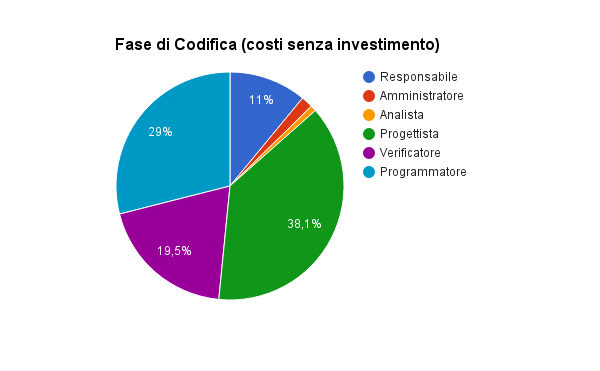
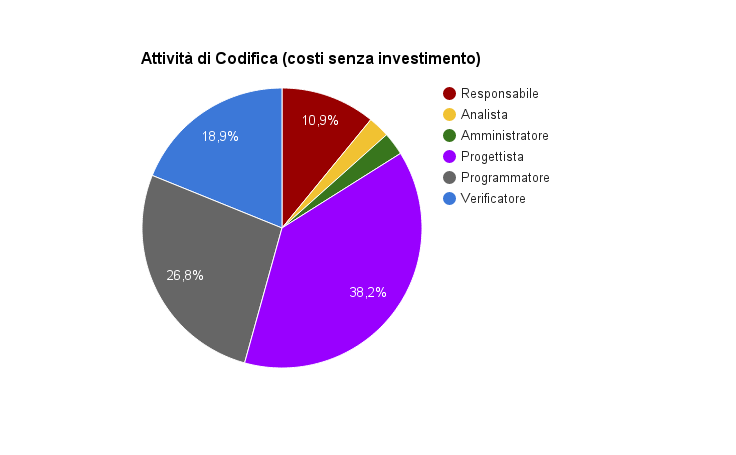
update tabelle PdP, minor fixes

Changed region(s): [[0.18, 0.1779, 0.6, 0.8302], [0.6, 0.1779, 0.78, 0.4744], [0.18, 0.0889, 0.75, 0.1482]]

diff --git a/RR/Esterni/PianoDiProgetto_v0.1.1.tex b/RR/Esterni/PianoDiProgetto_v0.1.1.tex
@@ -266,7 +266,7 @@ Nella fase di Analisi, i componenti ricopriranno i ruoli di progetto secondo la 
     \hline
     & \textbf{Inv} & \textbf{Ren} & \textbf{Inv} & \textbf{Ren} & \textbf{Inv} & \textbf{Ren} & \textbf{Inv} & \textbf{Ren} & \textbf{Inv} & \textbf{Ren} & \textbf{Inv} & \textbf{Ren} & \textbf{Inv} & \textbf{Ren}\\
     \hline
-    Andrea Baldan & 13 & 12 & & & 10 & 7 & & & & & 12 & 10 & 35 & 29\\
+    Andrea Baldan & 13 & 12 & & & 11 & 8 & & & & & 12 & 10 & 36 & 30\\
     Alberto de Agostini & 12 & 11 & 12 & 10 & & & & & & & 12 & 9 & 36 & 30\\
     Michael Munaro & & & 17 & 15 & & & & & & & 17 & 14 & 34 & 29\\
     Giacomo Vanin & & & 17 & 14 & & & & & & & 19 & 17 & 36 & 31\\
@@ -276,7 +276,7 @@ Nella fase di Analisi, i componenti ricopriranno i ruoli di progetto secondo la 
     \hline
   \end{tabular}
 \end{center}
-I seguenti grafici illustrano le ore investite per Persona suddivise tra ore investite e ore rendicontate, in fase di Analisi
+I seguenti grafici illustrano le ore investite per Persona suddivise tra ore investite e ore rendicontate, per l'attività di Analisi
 \begin{figure}[H]
   \begin{subfigure}[H]{0.47\textwidth}
     \includegraphics[width=1.2\textwidth,keepaspectratio]{AnalisiConInvestimento.png}
@@ -304,13 +304,15 @@ Nella fase di Progettazione, i componenti ricopriranno i ruoli di progetto secon
     Alberto de Agostini & & & 5 & 4 & 4 & 4 & 20 & 18 & & & & & 29 & 26\\
     Michael Munaro & & & & & 6 & 5 & & & & & 19 & 17 & 25 & 22\\
     Giacomo Vanin & 11 & 10 & & & & & 18 & 16 & & & & & 29 & 26\\
-    Marco Boseggia & 10 & 8 & 7 & 6 & & & 4 & 3 & & & 18 & 15 & 39 & 32\\
+    Marco Boseggia & 8 & 7 & 7 & 6 & 4 & 3 & 4 & 3 & & & 17 & 15 & 40 & 34\\
     Francesco Agostini & & & 8 & 7 & & & 17 & 15 & & & & & 25 & 22\\
     Davide Trevisan & & & 8 & 6 & & & 18 & 16 & & & 15 & 12 & 41 & 34\\
     \hline
   \end{tabular}
 \end{center}
-I seguenti grafici illustrano le ore investite per Persona suddivise tra ore investite e ore rendicontate, in fase di Progettazione
+I seguenti grafici illustrano le ore investite per Persona suddivise tra ore
+investite e ore rendicontate, per l'attività di Progettazione, comprensive delle
+ore riservate all'attività \textbf{Analisi di dettaglio}.
 \begin{figure}[H]
   \begin{subfigure}[H]{0.47\textwidth}
     \includegraphics[width=1.2\textwidth,keepaspectratio]{ProgettazioneConInvestimento.png}
@@ -333,18 +335,19 @@ Nella fase di Codifica, i componenti ricopriranno i ruoli di progetto secondo la
     \hline
     & \textbf{Inv} & \textbf{Ren} & \textbf{Inv} & \textbf{Ren} & \textbf{Inv} & \textbf{Ren} & \textbf{Inv} & \textbf{Ren} & \textbf{Inv} & \textbf{Ren} & \textbf{Inv} & \textbf{Ren} & \textbf{Inv} & \textbf{Ren}\\
     \hline
-    Andrea Baldan & & & 2 & 2 & & & 22 & 20 & 26 & 24 & 2 & 2 & 52 & 48\\
+    Andrea Baldan & & & 7 & 6 & & & 20 & 18 & 23 & 21 & 2 & 2 & 52 & 47\\
     Alberto de Agostini & & & & & & & 21 & 18 & 17 & 15 & 16 & 12 & 54 & 45\\
-    Michael Munaro & 10 & 9 & & & & & & & 31 & 27 & 22 & 17 & 63 & 53\\
-    Giacomo Vanin & & & & & 6 & 5 & & & 24 & 21 & 24 & 18 & 54 & 44\\
-    Marco Boseggia & & & & & & & 23 & 20 & 22 & 20 & & & 45 & 40\\
-    Francesco Agostini & 8 & 7 & & & & & 27 & 24 & & & 25 & 20 & 60 & 51\\
-    Davide Trevisan & 6 & 6 & & & & & 24 & 22 & 10 & 9 & 13 & 9 & 53 & 46\\
+    Michael Munaro & 10 & 9 & & & & & 15 & 13 & 15 & 13 & 22 & 17 & 62 & 52\\
+    Giacomo Vanin & & & & & 6 & 5 & & & 25 & 22 & 24 & 18 & 55 & 45\\
+    Marco Boseggia & & & & & & & 22 & 19 & 21 & 19 & & & 43 & 38\\
+    Francesco Agostini & 8 & 7 & & & & & 20 & 18 & 10 & 9 & 20 & 18 & 58 & 52\\
+    Davide Trevisan & 6 & 6 & & & 4 & 3 & 21 & 19 & 10 & 9 & 13 & 9 & 54 & 46\\
     \hline
   \end{tabular}
 \end{center}
-\normalsize
-I seguenti grafici illustrano le ore investite per Persona suddivise tra ore investite e ore rendicontate, in fase di Codifica
+\normalsize I seguenti grafici illustrano le ore investite per Persona suddivise
+tra ore investite e ore rendicontate, per l'attività di Codifica, comprensive
+delle ore riservate per l'attività \textbf{Progettazione di Dettaglio}.
 \begin{figure}[H]
   \begin{subfigure}[H]{0.47\textwidth}
     \includegraphics[width=1.2\textwidth,keepaspectratio]{CodificaConInvestimento.png}
@@ -367,29 +370,29 @@ Per la durata complessiva del progetto, i componenti ricopriranno i ruoli di pro
     \hline
     & \textbf{Inv} & \textbf{Ren} & \textbf{Inv} & \textbf{Ren} & \textbf{Inv} & \textbf{Ren} & \textbf{Inv} & \textbf{Ren} & \textbf{Inv} & \textbf{Ren} & \textbf{Inv} & \textbf{Ren} & \textbf{Inv} & \textbf{Ren}\\
     \hline
-    Andrea Baldan & & & 2 & 2 & & & 22 & 20 & 26 & 24 & 2 & 2 & 52 & 48\\
-    Alberto de Agostini & & & & & & & 21 & 18 & 17 & 15 & 16 & 12 & 54 & 45\\
-    Michael Munaro & 10 & 9 & & & & & & & 31 & 27 & 22 & 17 & 63 & 53\\
-    Giacomo Vanin & & & & & 6 & 5 & & & 24 & 21 & 24 & 18 & 54 & 44\\
-    Marco Boseggia & & & & & & & 23 & 20 & 22 & 20 & & & 45 & 40\\
-    Francesco Agostini & 8 & 7 & & & & & 27 & 24 & & & 25 & 20 & 60 & 51\\
-    Davide Trevisan & 6 & 6 & & & & & 24 & 22 & 10 & 9 & 13 & 9 & 53 & 46\\
+    Andrea Baldan & 13 & 12 & 7 & 6 & 11 & 8 & 37 & 32 & 23 & 21 & 26 & 23 & 117 & 102\\
+    Alberto de Agostini & 12 & 11 & 17 & 14 & 4 & 4 & 41 & 36 & 17 & 15 & 28 & 21 & 119 & 101\\
+    Michael Munaro & 10 & 9 & 17 & 15 & 6 & 5 & 15 & 13 & 15 & 13 & 58 & 48 & 121 & 103\\
+    Giacomo Vanin & 11 & 10 & 17 & 14 & 6 & 5 & 18 & 16 & 25 & 22 & 43 & 35 & 120 & 102\\
+    Marco Boseggia & 8 & 7 & 25 & 22 & 4 & 3 & 26 & 22 & 21 & 19 & 33 & 30 & 117 & 103\\
+    Francesco Agostini & 8 & 7 & 18 & 16 & 10 & 8 & 37 & 33 & 10 & 9 & 34 & 30 & 117 & 103\\
+    Davide Trevisan & 6 & 6 & 22 & 18 & 4 & 3 & 39 & 35 & 10 & 9 & 41 & 32 & 122 & 103\\
     \hline
   \end{tabular}
 \end{center}
 \normalsize
-I seguenti grafici illustrano le ore investite per Persona suddivise tra ore investite e ore rendicontate, in fase di Codifica
-%\begin{figure}[H]
-%  \begin{subfigure}[H]{0.47\textwidth}
-%    \includegraphics[width=1.2\textwidth,keepaspectratio]{TotaleConInvestimento.png}
-%    \caption{Ore con investimento totali}
-%  \end{subfigure}
-%  \qquad
-%  \begin{subfigure}[H]{0.47\textwidth}
-%    \includegraphics[width=1.2\textwidth,keepaspectratio]{TotaleConRendicontazione.png}
-%    \caption{Ore con rendicontazione totali}
-%  \end{subfigure}
-%\end{figure}
+I seguenti grafici illustrano le ore investite per Persona suddivise tra ore investite e ore rendicontate durante l'intero progetto:
+\begin{figure}[H]
+ \begin{subfigure}[H]{0.47\textwidth}
+   \includegraphics[width=1.2\textwidth,keepaspectratio]{TotaleConInvestimento.png}
+   \caption{Ore con investimento totali}
+ \end{subfigure}
+ \qquad
+ \begin{subfigure}[H]{0.47\textwidth}
+   \includegraphics[width=1.2\textwidth,keepaspectratio]{TotaleConRendicontazione.png}
+   \caption{Ore con rendicontazione totali}
+ \end{subfigure}
+\end{figure}
 \newpage
 \subsection{Prospetto economico}
 In questa sottosezione vengono presentati, per ciascuna fase del progetto identificata
@@ -404,14 +407,14 @@ Nella fase di Analisi, le ore tra i ruoli sono state divise nel seguente modo:
     \hline
     \textbf{Ruolo} & \textbf{Ore} & \textbf{Costo}\\
     \hline
-    Responsabile & 27 & 810\\
-    Amministratore & 23 & 460\\
-    Analista & 97 & 2425\\
+    Responsabile & 25 & 750\\
+    Amministratore & 21 & 420\\
+    Analista & 88 & 2200\\
     Progettista & 0 & 0\\
-    Verificatore & 114 & 1710 \\
+    Verificatore & 103 & 1545 \\
     Programmatore & 0 & 0 \\
     \hline
-    \textbf{Totale} & 261 & 5405\\
+    \textbf{Totale} & 237 & 4915\\
     \hline
   \end{tabular}
   \qquad
@@ -421,14 +424,14 @@ Nella fase di Analisi, le ore tra i ruoli sono state divise nel seguente modo:
     \hline
     \textbf{Ruolo} & \textbf{Ore} & \textbf{Costo}\\
     \hline
-    Responsabile & 25 & 750\\
-    Amministratore & 18 & 360\\
-    Analista & 85 & 2125\\
+    Responsabile & 23 & 690\\
+    Amministratore & 16 & 320\\
+    Analista & 76 & 1900\\
     Progettista & 0 & 0\\
-    Verificatore & 98 & 1470 \\
+    Verificatore & 88 & 1320 \\
     Programmatore & 0 & 0 \\
     \hline
-    \textbf{Totale} & 226 & 4705\\
+    \textbf{Totale} & 203 & 4230\\
     \hline
   \end{tabular}
 \end{center}
@@ -456,13 +459,13 @@ Nella fase di Progettazione, le ore tra i ruoli sono state divise nel seguente m
     \textbf{Ruolo} & \textbf{Ore} & \textbf{Costo}\\
     \hline
     Responsabile & 19 & 570\\
-    Amministratore & 8 & 160\\
-    Analista & 19 & 475\\
+    Amministratore & 14 & 280\\
+    Analista & 28 & 700\\
     Progettista & 94 & 2068\\
-    Verificatore & 55 & 825 \\
+    Verificatore & 63 & 945 \\
     Programmatore & 0 & 0 \\
     \hline
-    \textbf{Totale} & 195 & 4098\\
+    \textbf{Totale} & 218 & 4563\\
     \hline
   \end{tabular}
   \qquad
@@ -472,14 +475,14 @@ Nella fase di Progettazione, le ore tra i ruoli sono state divise nel seguente m
     \hline
     \textbf{Ruolo} & \textbf{Ore} & \textbf{Costo}\\
     \hline
-    Responsabile & 16 & 480\\
-    Amministratore & 7 & 140\\
-    Analista & 16 & 400\\
+    Responsabile & 17 & 510\\
+    Amministratore & 12 & 240\\
+    Analista & 23 & 575\\
     Progettista & 82 & 1804\\
-    Verificatore & 43 & 645 \\
+    Verificatore & 55 & 825 \\
     Programmatore & 0 & 0 \\
     \hline
-    \textbf{Totale} & 164 & 3469\\
+    \textbf{Totale} & 189 & 3954\\
     \hline
   \end{tabular}
 \end{center}
@@ -507,13 +510,13 @@ Nella fase di Codifica, le ore tra i ruoli sono state divise nel seguente modo:
     \textbf{Ruolo} & \textbf{Ore} & \textbf{Costo}\\
     \hline
     Responsabile & 24 & 720\\
-    Amministratore & 6 & 120\\
-    Analista & 2 & 50\\
-    Progettista & 117 & 2574\\
-    Verificatore & 102 & 1530 \\
-    Programmatore & 130 & 1950 \\
+    Amministratore & 10 & 200\\
+    Analista & 7 & 175\\
+    Progettista & 119 & 2618\\
+    Verificatore & 121 & 1455 \\
+    Programmatore & 97 & 1815 \\
     \hline
-    \textbf{Totale} & 381 & 6944\\
+    \textbf{Totale} & 378 & 6983\\
     \hline
   \end{tabular}
   \qquad
@@ -524,13 +527,13 @@ Nella fase di Codifica, le ore tra i ruoli sono state divise nel seguente modo:
     \textbf{Ruolo} & \textbf{Ore} & \textbf{Costo}\\
     \hline
     Responsabile & 22 & 660\\
-    Amministratore & 5 & 100\\
-    Analista & 2 & 50\\
-    Progettista & 104 & 2288\\
-    Verificatore & 78 & 1170 \\
-    Programmatore & 116 & 1740 \\
+    Amministratore & 8 & 160\\
+    Analista & 6 & 150\\
+    Progettista & 105 & 2310\\
+    Verificatore & 76 & 1140 \\
+    Programmatore & 108 & 1620 \\
     \hline
-    \textbf{Totale} & 327 & 6008 \\
+    \textbf{Totale} & 325 & 6040 \\
     \hline
   \end{tabular}
 \end{center}
@@ -558,14 +561,14 @@ investimento sono:
     \hline
     \textbf{Ruolo} & \textbf{Ore} & \textbf{Costo}\\
     \hline
-    Responsabile & 70 & 2100\\
-    Amministratore & 37 & 740\\
-    Analista & 118 & 2950\\
-    Progettista & 211 & 4642\\
-    Verificatore & 271 & 4065 \\
-    Programmatore & 130 & 1950 \\
+    Responsabile & 68 & 2040\\
+    Amministratore & 45 & 900\\
+    Analista & 123 & 3075\\
+    Progettista & 213 & 4686\\
+    Verificatore & 263 & 3945 \\
+    Programmatore & 121 & 1815 \\
     \hline
-    \textbf{Totale} & 837 & 16447\\
+    \textbf{Totale} & 833 & 16461\\
     \hline
   \end{tabular}
   \qquad
@@ -575,14 +578,14 @@ investimento sono:
     \hline
     \textbf{Ruolo} & \textbf{Ore} & \textbf{Costo}\\
     \hline
-    Responsabile & 63 & 1890\\
-    Amministratore & 30 & 600\\
-    Analista & 103 & 2575\\
-    Progettista & 186 & 4092\\
+    Responsabile & 62 & 1860\\
+    Amministratore & 36 & 720\\
+    Analista & 105 & 2625\\
+    Progettista & 187 & 4114\\
     Verificatore & 219 & 3285\\
-    Programmatore & 116 & 1740 \\
+    Programmatore & 108 & 1620 \\
     \hline
-    \textbf{Totale} & 717 & 14182 \\
+    \textbf{Totale} & 717 & 14224 \\
     \hline
   \end{tabular}
 \end{center}
